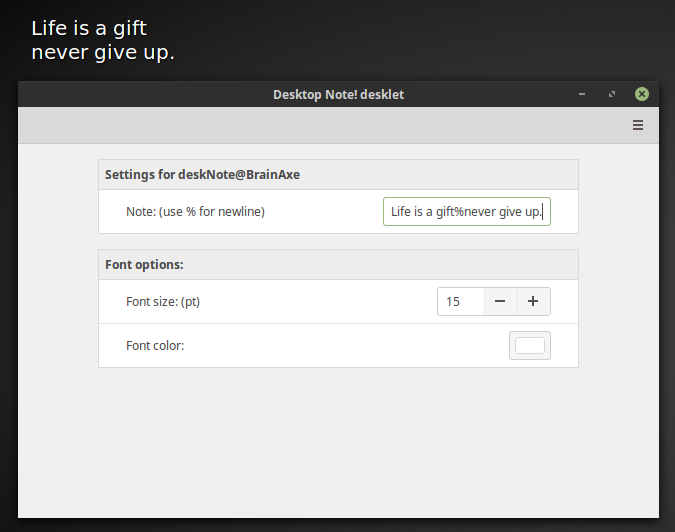
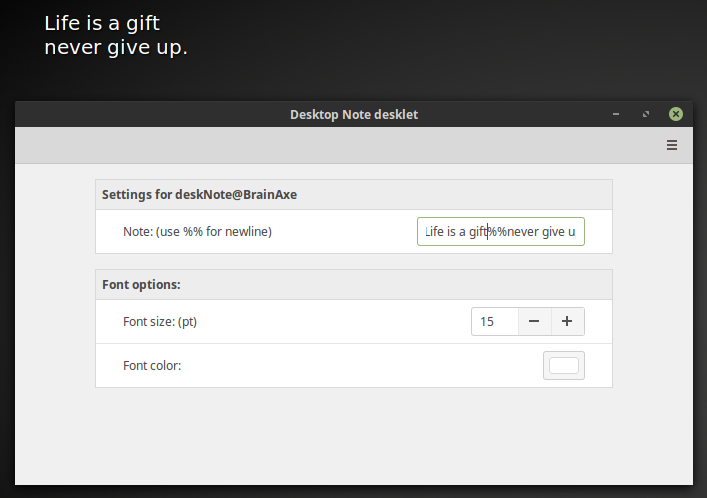
solved some bugs

diff --git a/deskNote@BrainAxe/files/deskNote@BrainAxe/desklet.js b/deskNote@BrainAxe/files/deskNote@BrainAxe/desklet.js
@@ -1,13 +1,8 @@
-const Cinnamon = imports.gi.Cinnamon;
 const Desklet = imports.ui.desklet;
-const Gettext = imports.gettext;
-const GLib = imports.gi.GLib;
-const Lang = imports.lang;
-const Mainloop = imports.mainloop;
 const Settings = imports.ui.settings;
 const St = imports.gi.St;
-const Util = imports.misc.util;
-const uuid = "inspireNote@BrainAxe";
+const uuid = "deskNote@BrainAxe";
+
 
 
 function deskNote(metadata, desklet_id) {
@@ -22,7 +17,7 @@ deskNote.prototype = {
 
         this._note = new St.Label({style_class: "note-container"});
         this.setContent(this._note);
-        this.setHeader(_("Inspire Note"));
+        this.setHeader(_("Desktop Note"));
 
         this.maxSize = 7000; // Cinnamon can crash if this int is too high
 
@@ -48,7 +43,7 @@ deskNote.prototype = {
 
     on_setting_changed: function() {
       var new_text = this.noteEntry;
-      var new_text = new_text.replace("%", "\n");
+      var new_text = new_text.replace(/%%/g, "\n");
       this.text.set_text(new_text);
     },
 

diff --git a/deskNote@BrainAxe/README.md b/deskNote@BrainAxe/README.md
@@ -13,7 +13,7 @@ and choosing Configure.
 - Font size
 - Font color
 
-For newline use % (symbol).
+For newline use %% (symbol).
 
 **Important**: Cinnamon may need to be restarted and/or the desklet may need to be removed and re-added 
 for this change to take effect. 
